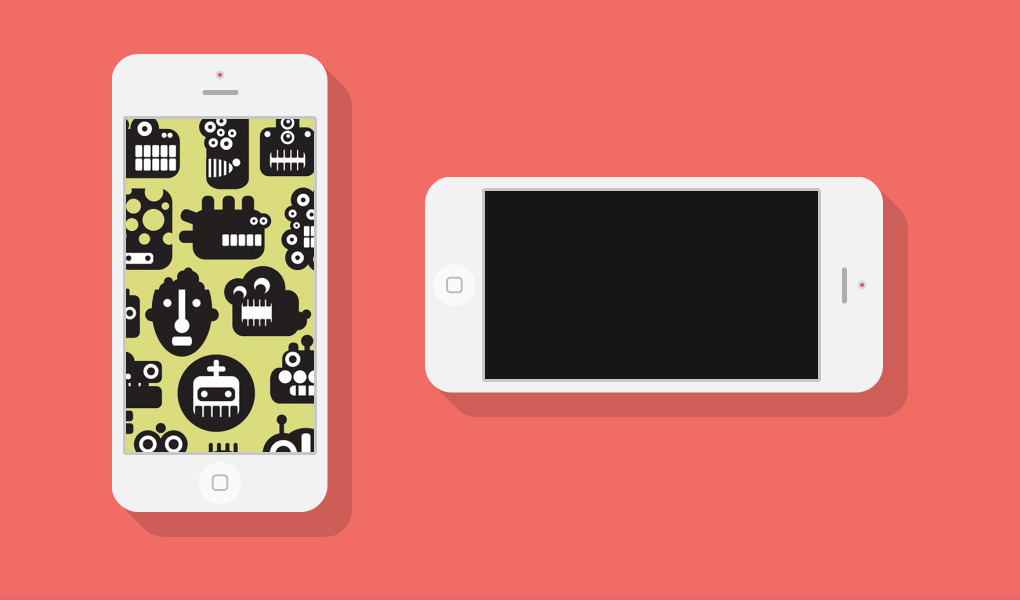
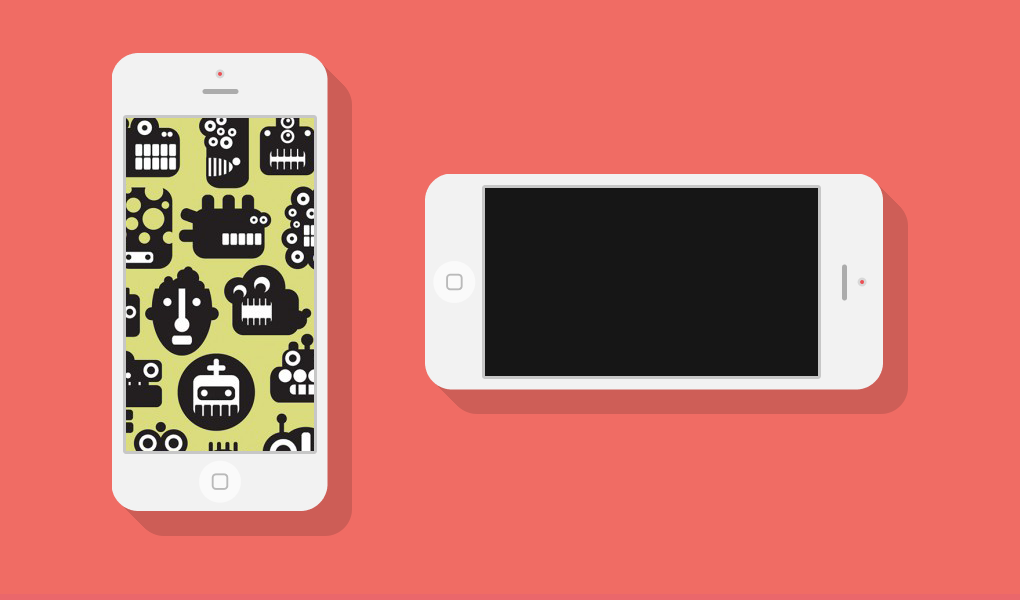
fix: change image for slider

diff --git a/style.css b/style.css
@@ -128,7 +128,7 @@ body{
     left: 199px;
 }
 .horiz-phone{
-    top: 264px;
+    top: 261px;
     left: 434px;
 }
 #horiz-phone, #vert-phone{
